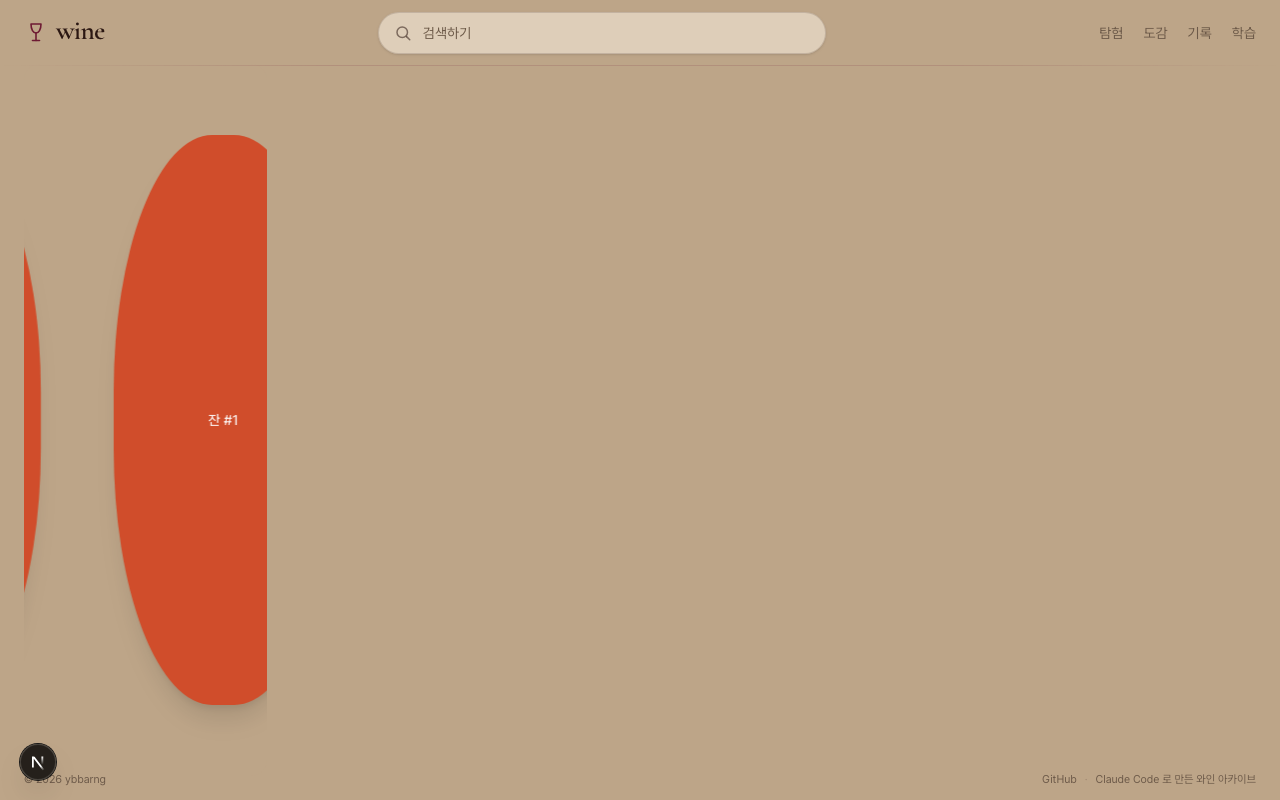
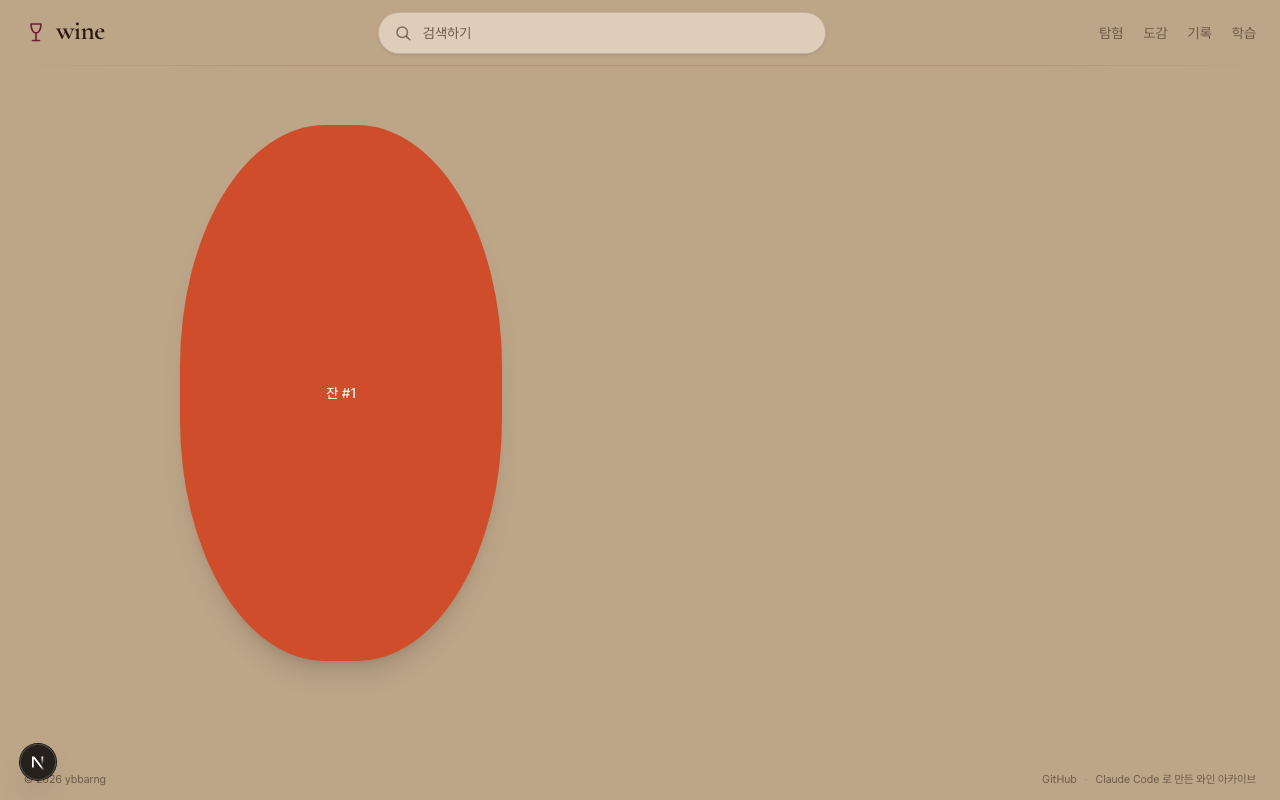
뒤로가기 B안(콘텐츠→창→잔 화면밖 진입) + 잔 상태 최신화 버그 수정
뒤로가기(상세→홈): ① 상세 콘텐츠 사라짐 → ② 창을 홈(화면 전체)으로 넓힘 →
③ 넓어진 창에서 홈 잔이 화면 밖에서 미끄러져 진입. 홈 캔버스가 화면 좌우를 채워
잔이 화면 끝에서 들어와 자연스럽다. 페이지 트랜지션 없이 매끄럽다.

버그 수정: 잔 교체(startSwap)가 지연 실행되는데 이전 잔 상태를 참조해, 예를 들어
부르고뉴 상세→홈 시 홈 잔(보르도)이 아니라 부르고뉴 잔이 그대로 남았다. 잔 상태를
항상 최신으로 추적하는 stateRef 를 두고 교체 시점에 그 값을 쓰도록 고쳤다.
상세→상세 교체도 GlassSetter 반영 뒤(다음 틱) 최신 잔으로 이뤄지게 짧게 미룬다.

docs/fluid-journey/fwd-*, back-*: 홈↔부르고뉴로 서로 다른 잔 교체를 캡처해
검증(fwd 잔 #1→#3, back 홈 잔 #1 정상 복귀·화면밖 진입).

Changed region(s): [[0.0625, 0.1562, 0.4062, 0.9062], [0.0, 0.3438, 0.0312, 0.7188]]

diff --git a/src/features/glass/glass-stage.tsx b/src/features/glass/glass-stage.tsx
@@ -124,6 +124,14 @@ export function GlassStage() {
   const absorb = ctx?.state.absorb;
   const setReveal = ctx?.setRevealContent;
 
+  // 잔 상태를 항상 최신으로 참조한다. 잔 교체(startSwap)는 지연 실행되므로, 그 시점의
+  // "가장 최신" 잔을 넣어야 한다. 새 페이지의 GlassSetter 가 잔 상태를 넣기 전에
+  // 교체를 예약해도, 실제 교체는 최신 상태로 이뤄지게 한다.
+  const stateRef = useRef({ glass: glass ?? 1, absorb: absorb ?? ([16, 78, 98] as const) });
+  if (glass != null && absorb != null) {
+    stateRef.current = { glass, absorb };
+  }
+
   // useLayoutEffect: 페인트 전에 실행해, 홈→상세 진입 순간 콘텐츠를 먼저 숨긴다(깜빡 방지).
   useLayoutEffect(() => {
     if (glass == null || absorb == null) return;
@@ -154,10 +162,12 @@ export function GlassStage() {
     if (frameTimer.current) clearTimeout(frameTimer.current);
 
     // 잔을 교체(이전 잔은 swapDir 쪽으로 나가고, 새 잔은 반대편에서 들어온다).
+    // 새로 들어오는 잔은 stateRef 의 최신값을 쓴다(지연 실행 시점의 실제 잔).
     const startSwap = (from: Pane, swapDir: Dir) => {
+      const { glass: g, absorb: a } = stateRef.current;
       keyRef.current += 1;
       setExiting({ ...from, dir: swapDir });
-      setCurrent({ key: keyRef.current, glass, absorb });
+      setCurrent({ key: keyRef.current, glass: g, absorb: a });
       setEnterDir(swapDir);
       exitTimer.current = setTimeout(() => {
         setExiting(null);
@@ -180,18 +190,23 @@ export function GlassStage() {
       return;
     }
 
-    // 상세 → 홈(역순): ① 잔부터 홈 잔으로 교체(창은 아직 상세 위치) → ② 잔 교체가
-    // 끝나면 창을 홈 위치로 이동·확대. 상세 콘텐츠는 홈 전환으로 이미 사라진 상태다.
+    // 상세 → 홈: ① 상세 콘텐츠는 홈 전환으로 이미 사라진 상태 → ② 창을 홈(화면 전체)
+    // 으로 넓힌 뒤 → ③ 넓어진 창에서 홈 잔이 화면 밖에서 미끄러져 들어온다(상세 잔은
+    // 반대쪽 화면 밖으로 나간다). 넓은 창이라 잔이 화면 끝에서 진입해 자연스럽다.
     if (!wasHome && isHome) {
-      startSwap(cur, "right"); // 뒤로 가기 = 오른쪽으로 나가고 왼쪽에서 홈 잔 등장
-      frameTimer.current = setTimeout(() => setFrameHome(true), SLIDE_MS);
+      setFrameHome(true); // ② 창을 홈 위치·크기로 넓힘
+      moveTimer.current = setTimeout(() => {
+        startSwap(cur, "right"); // ③ 창이 넓어진 뒤 홈 잔이 화면 밖에서 진입
+      }, MOVE_MS);
       return;
     }
 
-    // 상세 → 상세: 창 고정(frameHome 그대로), 콘텐츠는 계속 보이고, 바로 잔 교체.
+    // 상세 → 상세: 창 고정(frameHome 그대로), 콘텐츠는 계속 보이고 잔만 교체한다.
+    // 새 페이지의 GlassSetter 가 새 잔 상태를 넣은 뒤(다음 틱) 최신 잔으로 교체하도록
+    // 아주 짧게 미룬다(사실상 즉시).
     setReveal?.(true);
     setFrameHome(false);
-    startSwap(cur, dir);
+    revealTimer.current = setTimeout(() => startSwap(cur, dir), 48);
   }, [glass, absorb, isHome, pathname, setReveal]);
 
   useEffect(() => {
